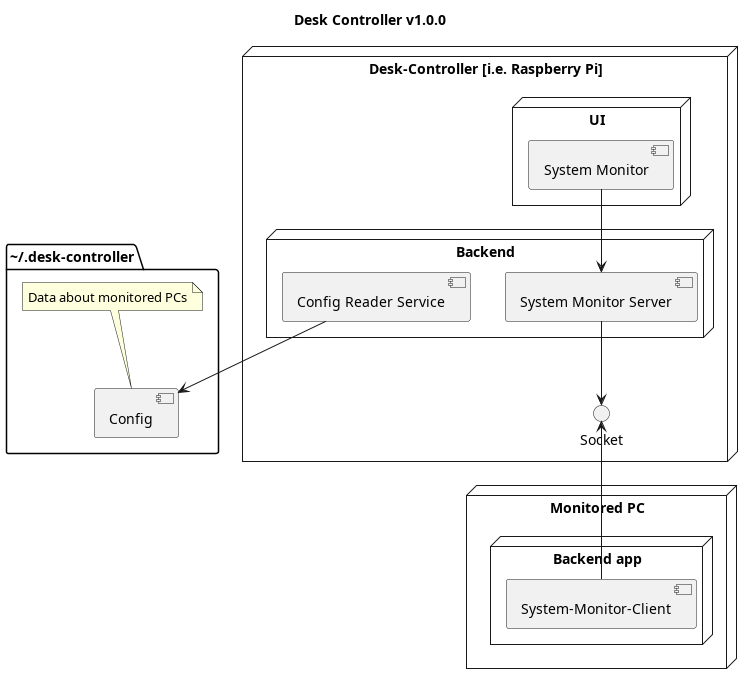
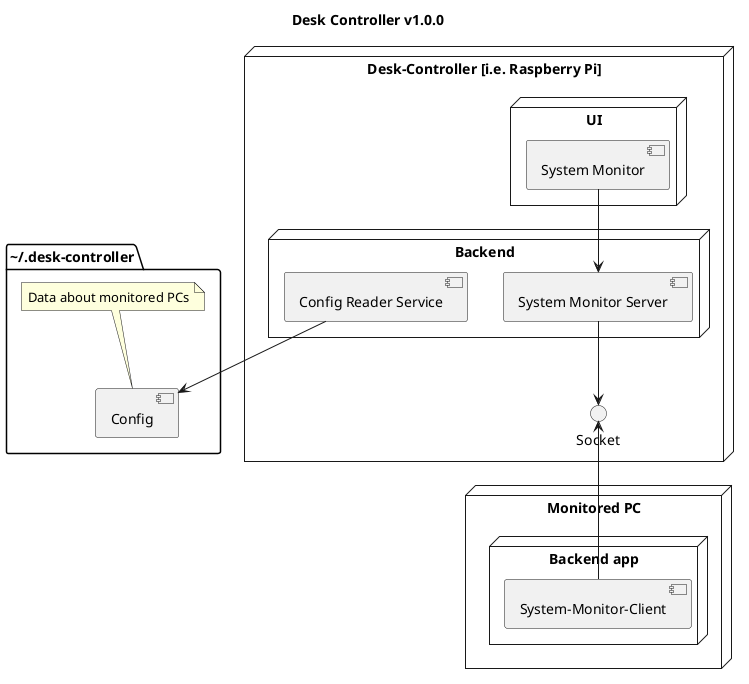
Moved to the TCP server

diff --git a/Desk-Controller/lib/src/TcpServer.cpp b/Desk-Controller/lib/src/TcpServer.cpp
@@ -1,0 +1,66 @@
+#include <iostream>
+#include <print>
+#include <source_location>
+#include "TcpServer.hpp"
+
+using sl = std::source_location;
+
+TcpServer::TcpServer(quint16 port, QObject *parent)
+    : server_(new QTcpServer(this))
+    , port_(port)
+{
+    std::cout << sl::current().function_name() << ", TCP server/* is ready" << std::endl;
+
+    connect(server_, &QTcpServer::newConnection, this, &TcpServer::newConnection);
+}
+
+TcpServer::~TcpServer()
+{
+    if (socket_->isOpen())
+    {
+        socket_->close();
+    }
+    if (server_->isListening())
+    {
+        server_->close();
+    }
+}
+
+bool TcpServer::start()
+{
+    std::cout << sl::current().function_name() << std::endl;
+
+    if (server_->listen(QHostAddress::LocalHost, port_))
+    {
+        std::cout << sl::current().function_name() << ", server's listening on port: " << port_ << std::endl;
+        return true;
+    }
+    else
+    {
+        std::cout << sl::current().function_name() << ", server coulnd't start!" << std::endl;
+        return false;
+    }
+}
+
+void TcpServer::newConnection()
+{
+    std::cout << sl::current().function_name() << std::endl;
+
+    socket_ = server_->nextPendingConnection();
+    connect(socket_, &QTcpSocket::readyRead, this, &TcpServer::readyRead);
+
+    const char *hello = "Hello from Desk-Controller!";
+    socket_->write(hello, qstrlen(hello));
+    socket_->flush();
+
+    auto data = socket_->readAll();
+    std::cout << data.toStdString() << std::endl;
+}
+
+void TcpServer::readyRead()
+{
+    std::cout << sl::current().function_name() << std::endl;
+
+    auto data = socket_->readAll();
+    emit dataReady(data);
+}

diff --git a/Desk-Controller/lib/src/Backend.cpp b/Desk-Controller/lib/src/Backend.cpp
@@ -3,35 +3,26 @@
  */
 
 #include <iostream>
-#include <print>
+#include <source_location>
 #include <QString>
 #include "Backend.hpp"
+#include "TcpServer.hpp"
+
+using sl = std::source_location;
 
 Backend::Backend(QObject *parent)
-    : QObject(parent)
-    , prefix_("Backend::")
-    , tcpClient_(new TcpClient(parent))
+    : QObject{parent}
+    , pcMonitor_{new TcpServer(9999)}
 {
-    connect(tcpClient_, &TcpClient::serverConnected, this, &Backend::connected);
-    connect(tcpClient_, &TcpClient::processInfoIsReady, this, &Backend::processInfoIsReady);
+    connect(pcMonitor_, &TcpServer::dataReady, this, &Backend::dataReady);
 
-    std::println("Backend created");
-    tcpClient_->connectToServer("127.0.0.1", 9999);
+    std::cout << sl::current().function_name() << ", ready" << std::endl;
+
+    pcMonitor_->start();
 }
 
-void Backend::ipAndPortDataReady(const QString &ip, const uint16_t &port)
+void Backend::dataReady(const QString &data)
 {
-    tcpClient_->connectToServer(ip, port);
-}
-
-void Backend::connected(const QString &ip, const uint16_t port)
-{
-    std::println("{}{}, connected to server, ip: {}, port: {}", prefix_, __func__, ip.toStdString(), port);
-    emit serverConnected(ip, port);
-}
-
-void Backend::processInfoIsReady(const QString &processInfo)
-{
-    std::println("{}{}", prefix_, __func__);
-    emit sendProcessInfo(processInfo);
+    std::cout << sl::current().function_name() << std::endl;
+    std::cout << data.toStdString() << std::endl;
 }

diff --git a/Desk-Controller/lib/include/Backend.hpp b/Desk-Controller/lib/include/Backend.hpp
@@ -5,8 +5,9 @@
 #ifndef BACKEND_H
 #define BACKEND_H
 
+#include <memory>
 #include <QObject>
-#include "TcpClient.hpp"
+#include "TcpServer.hpp"
 
 class Backend : public QObject
 {
@@ -16,17 +17,12 @@ public:
     explicit Backend(QObject *parent = nullptr);
 
 signals:
-    void serverConnected(const QString &ip, const uint16_t port);
-    void sendProcessInfo(const QString &processInfo);
 
 public slots:
-    void ipAndPortDataReady(const QString &ip, const uint16_t &port);
-    void connected(const QString &ip, const uint16_t port);
-    void processInfoIsReady(const QString &processInfo);
+    void dataReady(const QString &data);
 
 private:
-    std::string_view prefix_;
-    TcpClient *tcpClient_;
+    TcpServer *pcMonitor_;
 };
 
 #endif // BACKEND_H

diff --git a/Desk-Controller/lib/include/TcpServer.hpp b/Desk-Controller/lib/include/TcpServer.hpp
@@ -1,0 +1,30 @@
+#ifndef TCPSERVER_HPP
+#define TCPSERVER_HPP
+
+#include <QObject>
+#include <QTcpServer>
+#include <QTcpSocket>
+
+class TcpServer : public QObject
+{
+    Q_OBJECT
+
+public:
+    TcpServer(quint16 port, QObject *parent = nullptr);
+    virtual ~TcpServer();
+    bool start();
+
+signals:
+    void dataReady(const QString &data);
+
+public slots:
+    void newConnection();
+    void readyRead();
+
+private:
+    QTcpServer *server_ = nullptr;
+    QTcpSocket *socket_ = nullptr;
+    quint16 port_;
+};
+
+#endif // TCPSERVER_HPP
